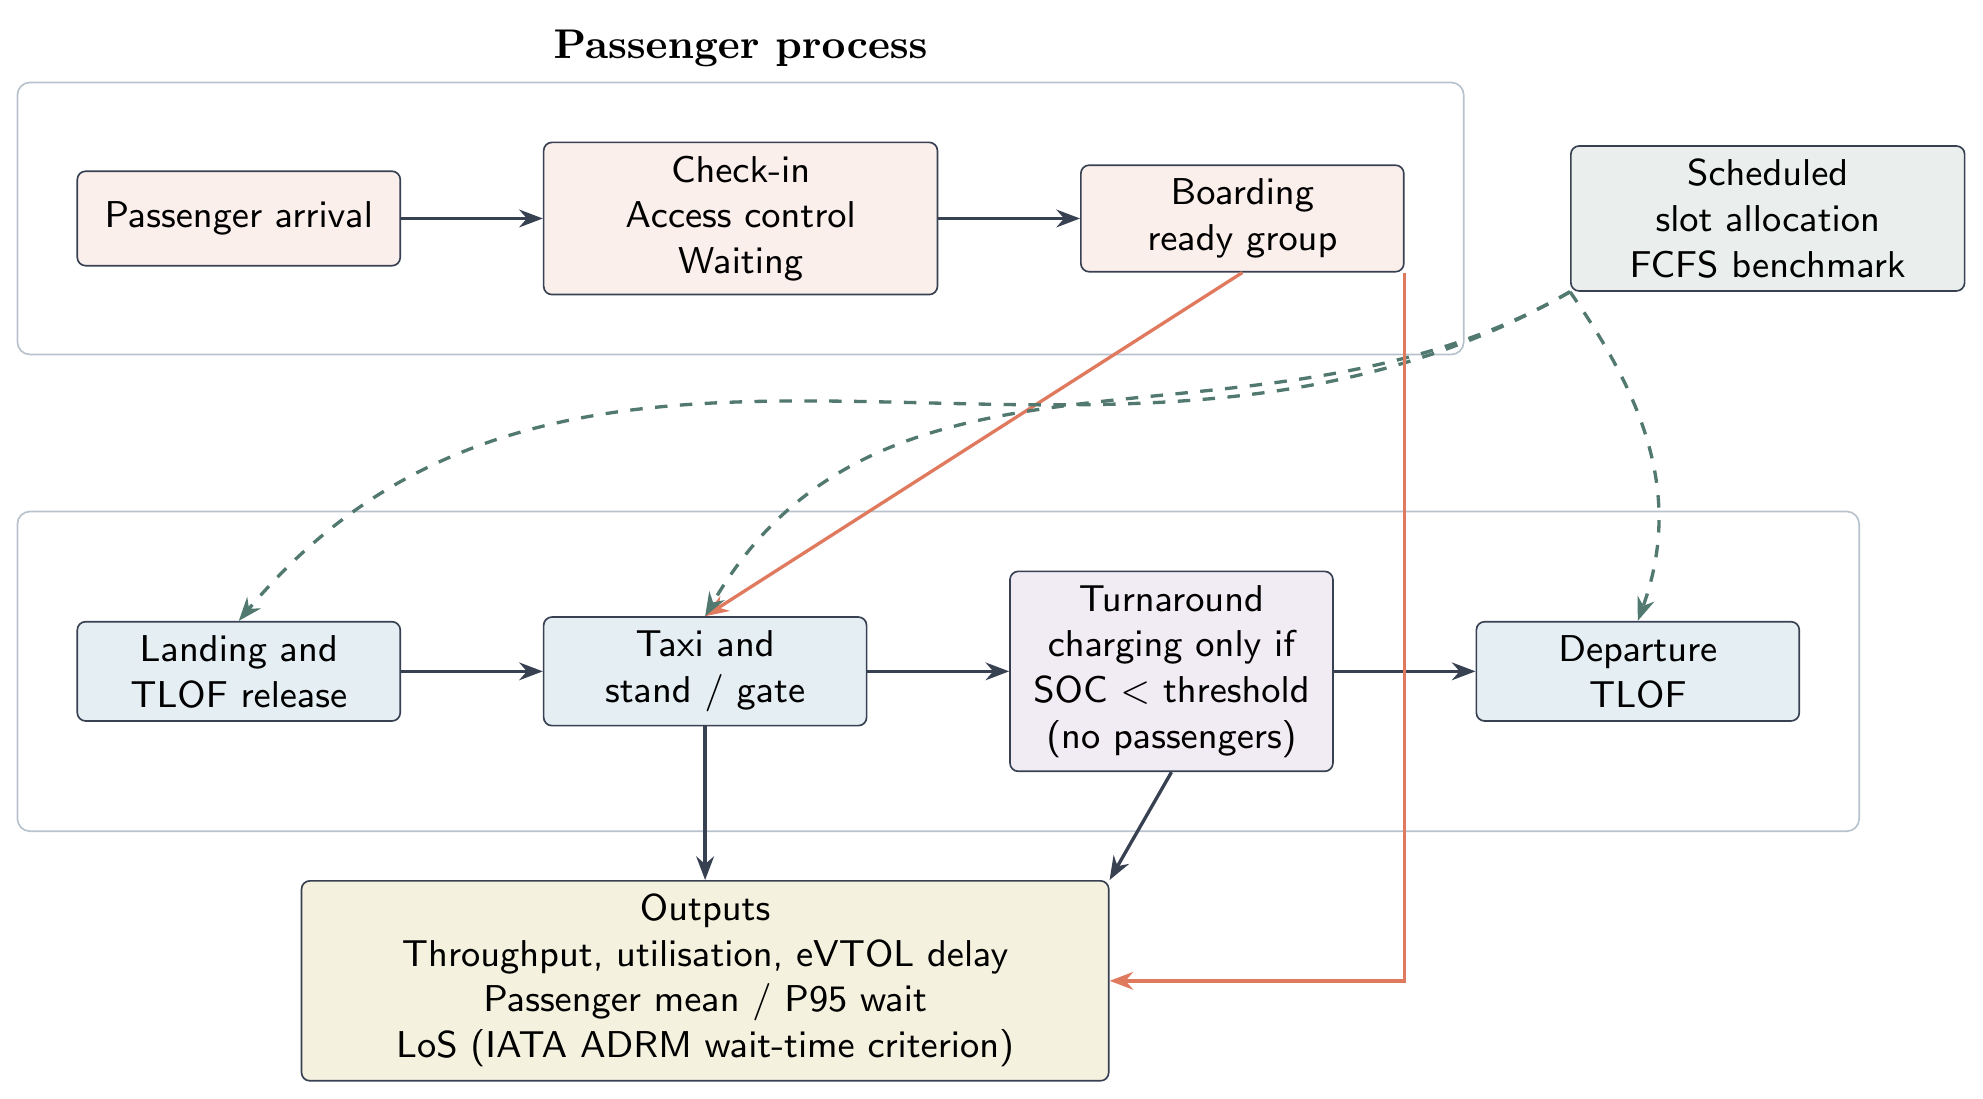
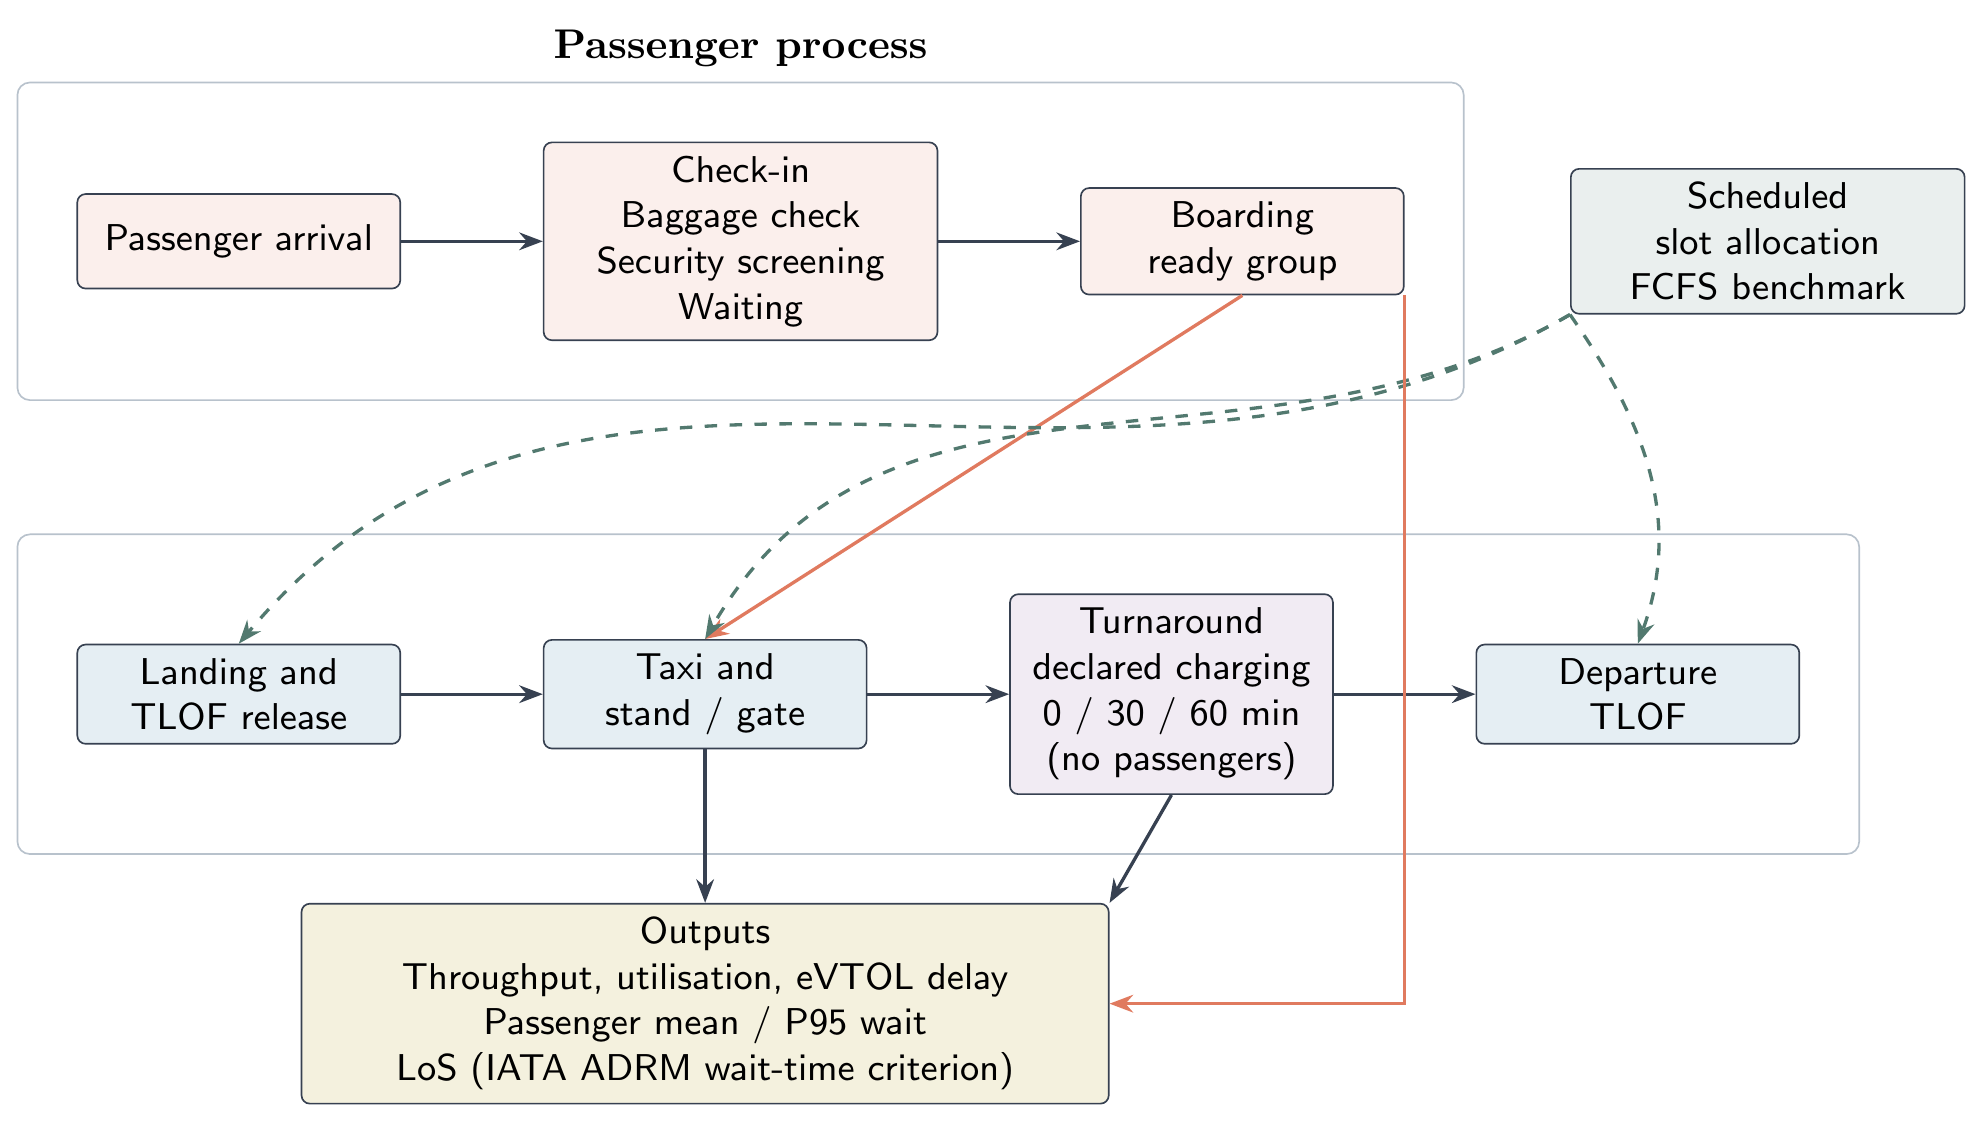
claude: apply revised author decisions (screening, baggage check, LoS set, declared charging)
Author decisions of 2026-11-18 (second answer): full security screening
(VAR-005 back to undefined, source pending); baggage check included
(VAR-028/PAR-028, Feldhoff and Soares Roque 2021); LoS set = IATA ADRM
first-class/fast-track via Feldhoff 2022 Table 5; expert/author point
values used as constants; charging declared in the reservation with
Preis 2023 times 0/30/60 min in every turnaround (VAR-008, PAR-002).
VAR-025 removed (mission energy out of scope); PAR-025 and PAR-027
marked not adopted. D2 decision record, flow text and figure updated.

diff --git a/figures/fig_coupled_network.tex b/figures/fig_coupled_network.tex
@@ -18,12 +18,12 @@
 \begin{document}
 \begin{tikzpicture}[font=\sffamily\small, node distance=9mm and 12mm]
   \node[box, fill=passenger!12] (arrival) {Passenger arrival};
-  \node[box, fill=passenger!12, right=of arrival, text width=31mm] (terminal) {Check-in\\Access control\\Waiting};
+  \node[box, fill=passenger!12, right=of arrival, text width=31mm] (terminal) {Check-in\\Baggage check\\Security screening\\Waiting};
   \node[box, fill=passenger!12, right=of terminal] (boarding) {Boarding\\ready group};
   \node[fit=(arrival)(terminal)(boarding), group, label={[font=\bfseries]above:Passenger process}] (pgroup) {};
   \node[box, fill=airside!12, below=30mm of arrival] (tlofarr) {Landing and\\TLOF release};
   \node[box, fill=airside!12, right=of tlofarr] (stand) {Taxi and\\stand / gate};
-  \node[box, fill=energy!12, right=of stand] (turn) {Turnaround\\charging only if\\SOC $<$ threshold\\(no passengers)};
+  \node[box, fill=energy!12, right=of stand] (turn) {Turnaround\\declared charging\\0 / 30 / 60 min\\(no passengers)};
   \node[box, fill=airside!12, right=of turn] (tlofdep) {Departure\\TLOF};
   \node[fit=(tlofarr)(stand)(turn)(tlofdep), group] (agroup) {};
   \node[box, fill=control!12, right=14mm of boarding, text width=31mm] (schedule) {Scheduled slot allocation\\FCFS benchmark};

diff --git a/deliverables/D2_model_design.md b/deliverables/D2_model_design.md
@@ -67,9 +67,18 @@ Registradas pelo autor após a Tarefa 01 (`claude/outputs/TASK_01_EVIDENCE.md`):
 
 - **Fronteira da aeronave:** o estudo trata a eVTOL em solo e nos eventos de pouso e decolagem no
   TLOF. Voo, rota, espaço aéreo e energia de missão estão fora do escopo.
-- **Controle do passageiro:** controle de acesso, e não inspeção de segurança completa. Base:
-  Feldhoff e Soares Roque (2021), única fonte lida com tempo de serviço (U(5, 20) s, suposição dos
-  autores); para inspeção completa não foi encontrado tempo publicado para vertiporto.
+- **Inspeção do passageiro:** inspeção de segurança completa (revisão do autor, que antes escolhera
+  controle de acesso). Tempo de serviço (VAR-005) ainda sem fonte; candidato aeroportuário em leitura.
+- **Checagem de bagagem:** estação incluída, U(30, 60) s, suposição de Feldhoff e Soares Roque (2021).
+  A fonte não diz se ela vem antes ou depois da inspeção.
+- **LoS:** tempos máximos IATA ADRM de primeira classe/fast-track reproduzidos por Feldhoff (2022,
+  Tab. 5): balcão 180 s, autoatendimento 120 s, inspeção 180 s.
+- **Valores pontuais** de especialistas e autores (Preis e Hornung, 2022; Feldhoff, 2022) usados como
+  constantes, pois as fontes não publicam distribuição.
+- **Recarga:** declarada na reserva (NUAIR/NASA, 2021, p. 73), com o tempo de Preis (2023, Tab. 1,
+  pp. 355–356) em todo turnaround: 0 (só embarque), 30 (base) ou 60 min. Preis supõe embarque
+  simultâneo à recarga; aqui a recarga ocorre sem passageiros (UAM.OP.MVCA.205), como no caso-base.
+  Não se usa potência nem limiar energético, pois energia de missão está fora do escopo.
 - **Massa do passageiro:** não modelada. O Reg. (UE) 2024/1111 (UAM.OP.MVCA.175(b)(1)) exige massa
   e CG conhecidos antes do voo, mas o modo de obtê-los fica fora do escopo; não há estação de
   pesagem.
@@ -82,8 +91,9 @@ mostra que ambas dependem de características OEM, rota, programação, demanda,
 e restrições físicas; ele também observa que vertistops de turnaround rápido podem não justificar
 recarga. Assim, a Fase A não terá carregador. Para a Fase C, serão comparados somente cenários
 explicitamente justificados: recarga no stand, recarga em posição adjacente dedicada e ausência de
-recarga local para operação tipo vertistop. A necessidade de recarga será determinada por estado de
-energia e missão, quando parâmetros confiáveis forem disponíveis; não será imposta a cada pouso.
+recarga local para operação tipo vertistop. Por decisão do autor (18/11/2026), energia de missão
+fica fora do escopo: o tempo de recarga é declarado na reserva e aplicado a todo turnaround
+(Preis, 2023: 0, 30 ou 60 min).
 
 ## Fronteira do sistema (versão 0)
 
@@ -91,7 +101,7 @@ Uma unidade de análise é um vertiporto de passageiros em uma janela operaciona
 representará dois fluxos sincronizados:
 
 ```text
-passageiro: chegada -> check-in -> controle de acesso -> espera -> gate -> embarque -> partida
+passageiro: chegada -> check-in -> checagem de bagagem e inspeção (ordem a definir) -> espera -> gate -> embarque -> partida
 eVTOL:     chegada -> TLOF/pad -> táxi -> stand/gate -> turnaround/recarga -> pad -> partida
 ```
 
@@ -108,7 +118,7 @@ manutenção profunda, meteorologia ou um sítio real específico na primeira ve
 | Airside | TLOF/pad e rota de táxi | cenário | ocupação exclusiva e bloqueio físico |
 | Interface | stand/gate | cenário | uma aeronave por posição; embarque/desembarque e energia podem requerê-lo |
 | Energia | carregador | ausente na Fase A; cenário na Fase C | localização e necessidade definidas por evidência de missão, energia e infraestrutura |
-| Terminal | check-in e controle de acesso | cenário | estações obrigatórias com filas finitas ou infinitas declaradas |
+| Terminal | check-in, checagem de bagagem e inspeção | cenário | estações obrigatórias com filas finitas ou infinitas declaradas |
 | Passageiro | grupo de voo | demanda | aguarda prontidão conjunta e tem limiar de LoS |
 
 ## Método proposto

diff --git a/claude/outputs/TASK_01_EVIDENCE.md b/claude/outputs/TASK_01_EVIDENCE.md
@@ -194,3 +194,11 @@ O autor decidiu, e as decisões foram registradas em `deliverables/D2_model_desi
 - **Controle de acesso** em vez de inspeção completa (PC-01, PC-03); a justificativa registrada é a única fonte com tempo de serviço, Feldhoff e Soares Roque (2021).
 - **Massa do passageiro fora do escopo:** PC-02 e PC-11 não são adotados; VAR-023 e PAR-021 foram removidos.
 - **Troca de bateria excluída** (PC-13; PAR-011 marcado como `excluded`).
+
+### Revisão das decisões do autor (18/11/2026, segunda resposta)
+
+- **Inspeção completa**, em vez de controle de acesso. VAR-005 continua sem valor. Candidato com dados medidos: *Data-Driven Analysis of Airport Security Checkpoint Operations*, Aerospace 7(6):69 (2020), doi 10.3390/aerospace7060069. Ainda **não lido**: a editora recusou acesso automatizado (HTTP 403). A tese de Metzner (2020) não foi localizada no repositório.
+- **Checagem de bagagem incluída** (VAR-028, PAR-028), U(30, 60) s, suposição de Feldhoff e Soares Roque (2021).
+- **LoS:** conjunto IATA ADRM de primeira classe/fast-track (PAR-026: 180/120/180 s).
+- **Valores pontuais** de Preis e Hornung (2022) e de Feldhoff (2022) adotados como constantes.
+- **Recarga declarada na reserva**, com o tempo de Preis (2023) em todo turnaround: 0/30/60 min (PAR-002). A proporção de voos que recarregam não tem fonte; Preis (2023) e Kotwicz et al. (2024, recarga até 100% após cada voo) aplicam recarga a todo turnaround. VAR-025 foi removido (energia fora do escopo). PAR-027 (potência) não é usado: com duração declarada a potência é desnecessária, e uma faixa de potência não é distribuição de probabilidade.
